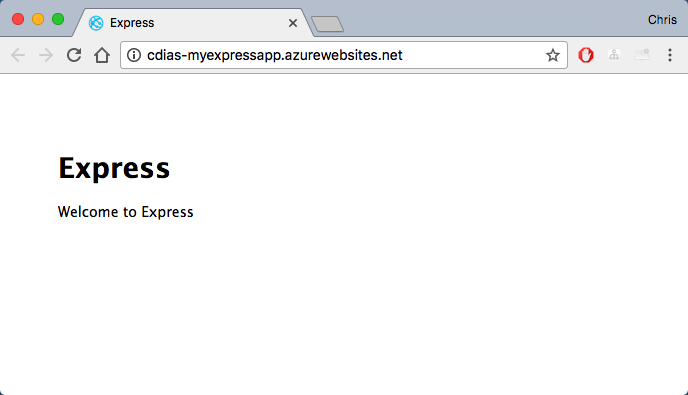
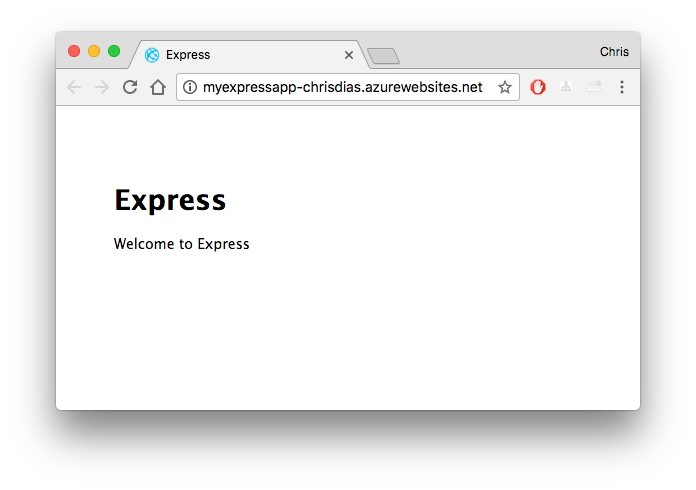
more docs

Changed region(s): [[0.0, 0.0, 1.0, 0.9418], [0.0, 0.1215, 0.0305, 0.1519]]

diff --git a/tutorials/nodejs-deployment/5.deploy-website.md b/tutorials/nodejs-deployment/5.deploy-website.md
@@ -1,7 +1,7 @@
 ---
 Order: 5
-TOCTitle: Code
-PageTitle: Code
+TOCTitle: Deploy the Website
+PageTitle: Deploy the Website
 MetaDescription: 
 MetaSocialImage: 
 Date: 
@@ -9,24 +9,69 @@ ShortDescription:
 Author: 
 ---
 
-# Code
+# Deploy the Website
 
-The first thing we'll need to do is get our source code into a GitHub repository. Browse to your GitHub account and [create a new public repository](https://github.com/new).
+In this step you will deploy your Node.js website using Git and the Azure CLI. You will use the most basic deployment model where you push your local Git repository to the Website. Later in this walkthrough you will set up a more robust Continuous Delivery pipeline.
 
-![Create a new GitHub repository](images/nodejs/newgithubrepo.png)
+## Initialize the Git Repository
 
----
+Initialize a local Git repository and make an initial commit. Git will respect the `.gitignore` file created when you first created the application using the Express generator and not commit the `node_modules` folder.
 
-We are going to follow the instructions provided by GitHub to create a new repository on the command line, but with a few changes. 
-It is a good practice to include a `.gitignore` file in your repository that excludes the `node_modules` folder. We'll do this instead of creating a `README.md` file and we'll add and commit all of the files in the workspace (except `node_modules` of course): 
-
-```bash
-echo "node_modules" >> .gitignore
+``` bash
 git init
-git add .
-git commit -m "first commit"
-git remote add origin https://github.com/**YourGitHubAccount**/myExpressApp.git
-git push -u origin master
+git add -A
+git commit -m "Initial Commit"
 ```
 
+## Set up a Remote
+
+Configure the Website for deployment via Git. If you have not already set up deploy credentials in Azure, do this first, replacing `UserName` and `Password` below. Note that `UserName` must be uniqe across Azure!
+
+``` bash
+az appservice web deployment user set --user-name **UserName** --password **Password**
+```
+
+This command will return the Git endpoint to push to which includes the `UserName`.
+
+``` bash
+az appservice web source-control config-local-git --name myExpressApp-chrisdias
+{
+  "url": "https://chrisdias@myexpressapp-chrisdias.scm.azurewebsites.net/myExpressApp-chrisdias.git"
+}
+```
+
+With the endpoint in hand, set up a new Remote in Git named `azure`.
+
+``` bash
+git remote add azure https://chrisdias@myexpressapp-chrisdias.scm.azurewebsites.net/myExpressApp-chrisdias.git
+```
+
+## Deploy to Azure
+
+Finally, you can deploy the application to Azure!  
+
+``` bash
+git push azure master
+Password for 'https://chrisdias@myexpressapp-chrisdias.scm.azurewebsites.net':
+Counting objects: 17, done.
+Delta compression using up to 8 threads.
+Compressing objects: 100% (14/14), done.
+Writing objects: 100% (17/17), 3.03 KiB | 0 bytes/s, done.
+Total 17 (delta 1), reused 0 (delta 0)
+remote: Updating branch 'master'.
+remote: Updating submodules.
+remote: Preparing deployment for commit id '5cda1c46a5'.
+remote: Generating deployment script.
+remote: Generating deployment script for node.js Web Site
+remote: Generated deployment script files
+...
+``` 
+
+You'll be prompted for the password you provided above. You should then see a series of messages from the remote host (the Website) as the code is being deployed.
+
+Browse to the site again and you should see your Express site hosted in Azure!
+
+![Express Site Hosted in Azure](images/expressinazure.png)
+
+---
 <button>Next</button>

diff --git a/tutorials/nodejs-deployment/4.create-website.md b/tutorials/nodejs-deployment/4.create-website.md
@@ -1,7 +1,7 @@
 ---
 Order: 4
-TOCTitle: Code
-PageTitle: Code
+TOCTitle: Create the WebSite
+PageTitle: Create the WebSite
 MetaDescription: 
 MetaSocialImage: 
 Date: 
@@ -9,24 +9,52 @@ ShortDescription:
 Author: 
 ---
 
-# Code
+# Create the WebSite
 
-The first thing we'll need to do is get our source code into a GitHub repository. Browse to your GitHub account and [create a new public repository](https://github.com/new).
+In this step you will use the Azure CLI to create an website on Azure.
 
-![Create a new GitHub repository](images/nodejs/newgithubrepo.png)
+## Create a Resource Group
 
----
+A "Resource Group" is essentially a named collection of all our application's resources in Azure. For example, Resource Group can contain a reference to a website, a database, and a function. 
 
-We are going to follow the instructions provided by GitHub to create a new repository on the command line, but with a few changes. 
-It is a good practice to include a `.gitignore` file in your repository that excludes the `node_modules` folder. We'll do this instead of creating a `README.md` file and we'll add and commit all of the files in the workspace (except `node_modules` of course): 
-
-```bash
-echo "node_modules" >> .gitignore
-git init
-git add .
-git commit -m "first commit"
-git remote add origin https://github.com/**YourGitHubAccount**/myExpressApp.git
-git push -u origin master
+``` bash
+az group create --name myResourceGroup --location westus 
 ```
 
-<button>Next</button>
+Here we created a Resource Group called `myResourceGroup` and we are telling Azure to store the Resource Group metadata (the list of resources in the group) in the `westus` data center.
+
+Next, let's tell the Azure CLI to use this newly created Resource Group as the default group in any subsequent commands so we don't have to type it in each time. While we're at it, we'll tell the CLI that we want everything stored in the `westus` data center too.
+
+``` bash
+az configure --defaults group=myResourceGroup location=westus
+```
+
+## Create an App Service Plan
+
+An "App Service Plan" defines the physical resources that will be used to host our Website. In this walkthrough we will use a **Free** hosting plan (`--sku F1`) which means our site will be hosted on a machine alongside other websites. You can scale up and be the only site running on a machine by specifying a different value for `--sku`. 
+
+``` bash
+az appservice plan create --name myPlan --sku F1
+``` 
+
+## Create the Website
+
+Now create the website. Make sure to give it a **unique name** as it will be referenced as http://**unique-name**.azurewebsites.net. In this example, we'll call it `myExpressApp-chrisdias`.
+
+``` bash
+az appservice web create --name myExpressApp-chrisdias --plan myPlan
+```
+
+## Run the Website
+
+Finally, let's ensure the site is up and running.
+
+``` bash
+az appservice web browse --name myExpressApp-chrisdias
+```
+
+You should see something like this:
+
+![Empty Azure Website](images/emptyazuresite.png)
+
+<button>My site is running</button>

diff --git a/tutorials/nodejs-deployment/2.setup.md b/tutorials/nodejs-deployment/2.setup.md
@@ -33,27 +33,32 @@ Once installed, you can use the `az` command from your favorite terminal.
 Following the instructions, browse to [https://aka.ms/devicelogin](https://aka.ms/devicelogin) and paste in the 9 character code. When prompted, use the email address and password you used when creating your Azure account.
 
 ``` bash
-$ az login
+az login
 To sign in, use a web browser to open the page https://aka.ms/devicelogin and enter the code BF9BUDLGR to authenticate.
 ```
+
+### Update the CLI
 
 Make sure you've got the latest CLI components installed by telling the CLI to update itself. This is useful if you have not run the CLI in a while.
 
 ``` bash
-$ az component update
+az component update
 ```
+
+### Set the Subscription
 
 If you have multiple Azure subscriptions you will want to make sure you are using the appropriate one for this walkthrough. List all of the subscriptions you have access to and then set the active one.
 
 ``` bash
-$ az account list -o table
+az account list -o table
 Name                                         CloudName    SubscriptionId                        State    IsDefault
 -------------------------------------------  -----------  ------------------------------------  -------  -----------
 Windows Azure MSDN - Visual Studio Ultimate  AzureCloud   b9f03513-e38b-4ef7-81a2-2669c52cdd51  Enabled
 Demo App Subscription                        AzureCloud   065849c9-c0c8-43d0-874c-01c7b295a1bc  Enabled  True
 ToDo App Subscription                        AzureCloud   546ac631-883f-4fb4-bff0-b8639ed6e7c8  Enabled
 
-$ az account set --subscription "Windows Azure MSDN - Visual Studio Ultimate"
+az account set --subscription "Windows Azure MSDN - Visual Studio Ultimate"
+az configure --defaults location=westus
 ```
 
 ## Prerequisite Check
@@ -61,19 +66,15 @@ $ az account set --subscription "Windows Azure MSDN - Visual Studio Ultimate"
 Before we continue, ensure that you have all of the prerequisites properly installed. Type each command and ensure it displays the version you have installed. If your Node.js version is less than 6, please [upgrade](https://nodejs.org/en/download/) to the most current LTS ("Long Term Stable") release.
 
 ``` bash
-$ node -v
+node -v
 6.10.2
 ```
 
 Now check that you have `git` installed. If not, [install](https://git-scm.com/downloads) it and test again.
 
 ``` bash
-$ git --version
+git --version
 git version 2.6.4
 ```
-
-## MongoDB
-
-It is not necessary to have MongoDB installed to complete this walkthrough, we will create a database in the cloud. If you do want to run the application locally and persist data, you can simply [install the Community Edition](https://www.mongodb.com/download-center#community). 
 
 <button>I've installed the Azure CLI and the prerequisites</button>

diff --git a/tutorials/nodejs-deployment/3.express.md b/tutorials/nodejs-deployment/3.express.md
@@ -1,0 +1,56 @@
+---
+Order: 3
+TOCTitle: A simple Node.js Express App
+PageTitle: A simple Node.js Express App
+MetaDescription: 
+MetaSocialImage: 
+Date: 
+ShortDescription: 
+Author: 
+---
+
+# A simple Node.js Express Application
+
+In this step you will build a very simple Node.js application that can be deployed to the Cloud. You will use an application generator to quickly scaffold out the application from a terminal.
+
+## Install the Express Generator
+
+[Express](https://www.expressjs.com) is a very popular framework for building and running Node.js applications. You can scaffold (create) a new Express application using the [Express Generator](https://expressjs.com/en/starter/generator.html) tool. The Express Generator is shipped as an NPM module and installed by using the NPM command line tool `npm`.
+
+``` bash
+$ npm install -g express-generator
+```
+
+The -g switch installs the Express Generator globally on your machine so you can run it from anywhere.
+
+## Scaffold a New Application
+
+We can now scaffold a new Express application called `myExpressApp` by running:
+
+``` bash
+express myExpressApp --view pug --git
+```
+
+The `--view pug --git` parameters tell the generator to use the [pug](https://pugjs.org/api/getting-started.html) template engine (formerly known as `jade`) and to create a `.gitignore` file.
+
+To install all of the application's dependencies, go to the new folder and run `npm install`.
+
+``` bash
+cd myExpressApp
+npm install
+```
+
+## Run the Application
+
+Last, let's ensure that the application runs. From the terminal, start the application using the `npm start` command and then browse to [http://localhost:3000](http://localhost:3000).
+
+``` bash
+npm start
+```
+
+You should see something like this:
+
+![Running Express Application](images/express.png)
+
+
+<button>I created the Node.js application</button>

diff --git a/tutorials/nodejs-deployment/6.tailing-logs.md b/tutorials/nodejs-deployment/6.tailing-logs.md
@@ -1,7 +1,7 @@
 ---
 Order: 10
-TOCTitle: Code
-PageTitle: Code
+TOCTitle: Tailing Logs
+PageTitle: Tailing Logs
 MetaDescription: 
 MetaSocialImage: 
 Date: 
@@ -9,24 +9,27 @@ ShortDescription:
 Author: 
 ---
 
-# Code
+# Tailing Logs
 
-The first thing we'll need to do is get our source code into a GitHub repository. Browse to your GitHub account and [create a new public repository](https://github.com/new).
+In this step you will "tail" the logs from the running Website. Any calls to `console.log()` in the site will be displayed in your terminal.
 
-![Create a new GitHub repository](images/nodejs/newgithubrepo.png)
+Run the following Azure CLI command.
 
----
-
-We are going to follow the instructions provided by GitHub to create a new repository on the command line, but with a few changes. 
-It is a good practice to include a `.gitignore` file in your repository that excludes the `node_modules` folder. We'll do this instead of creating a `README.md` file and we'll add and commit all of the files in the workspace (except `node_modules` of course): 
-
-```bash
-echo "node_modules" >> .gitignore
-git init
-git add .
-git commit -m "first commit"
-git remote add origin https://github.com/**YourGitHubAccount**/myExpressApp.git
-git push -u origin master
+``` bash
+az appservice web log tail --name myExpressApp-chrisdias
 ```
 
+After a few seconds you should see a message indicating that you are connected to the log-streaming service.
+
+``` bash
+2017-04-17T19:55:35  Welcome, you are now connected to log-streaming service.
+```
+
+Refresh the page a few times in the browser and you'll see log output.
+
+``` bash
+GET / 304 1.704 ms - -
+GET / 304 0.935 ms - -
+GET / 304 0.490 ms - -
+```
 <button>Next</button>
